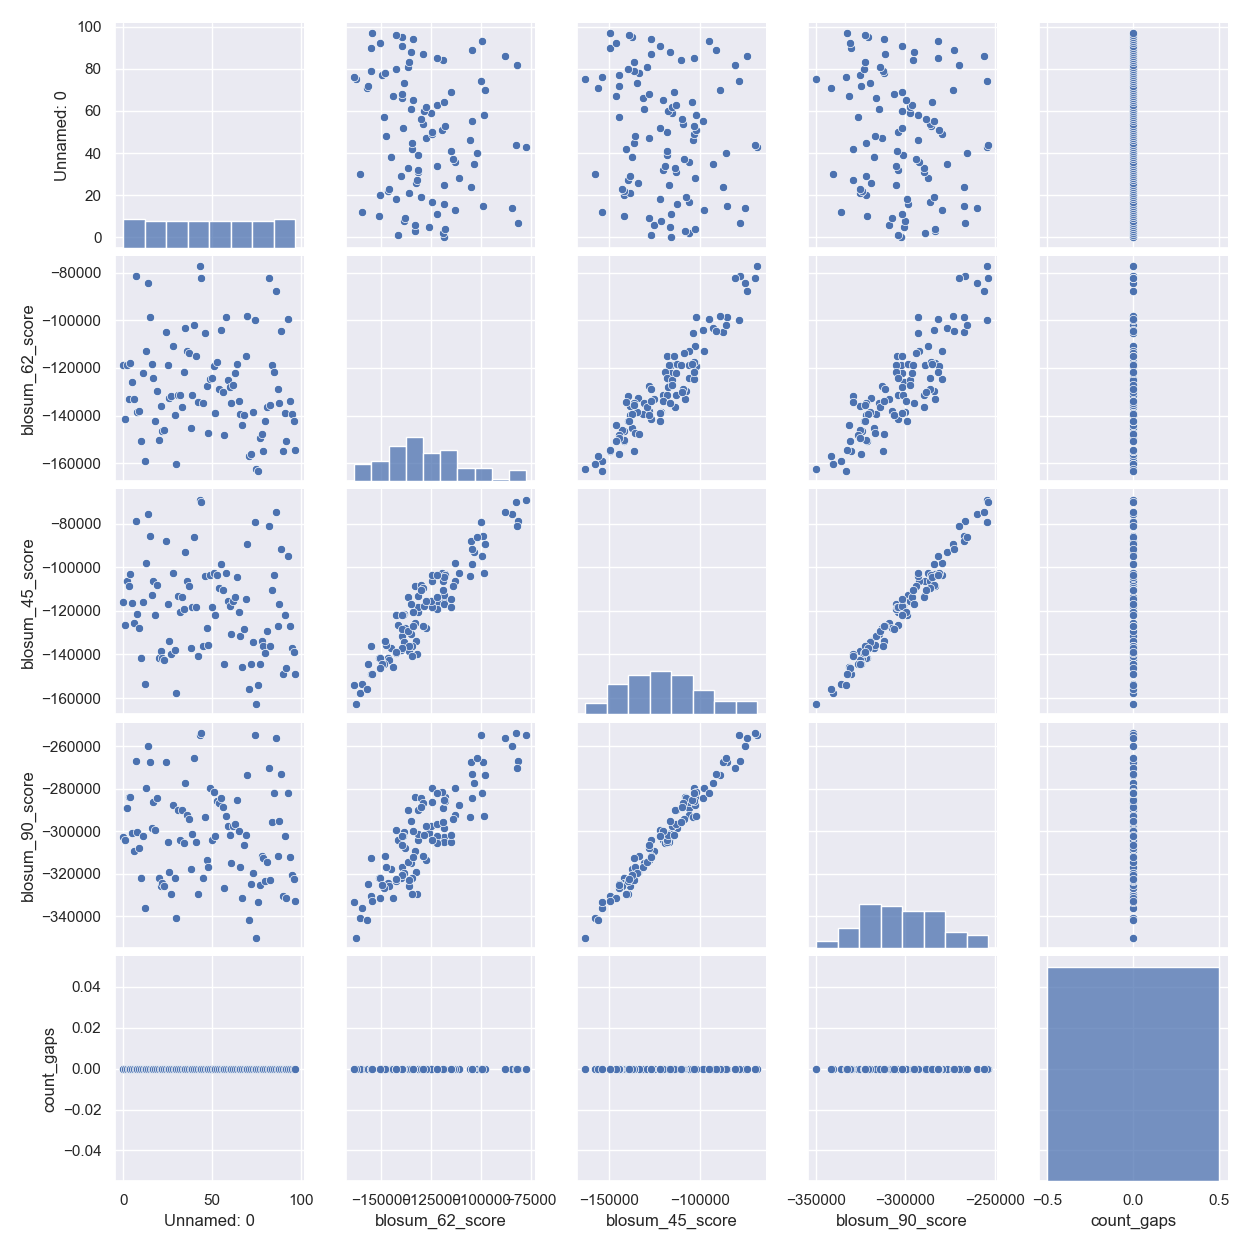
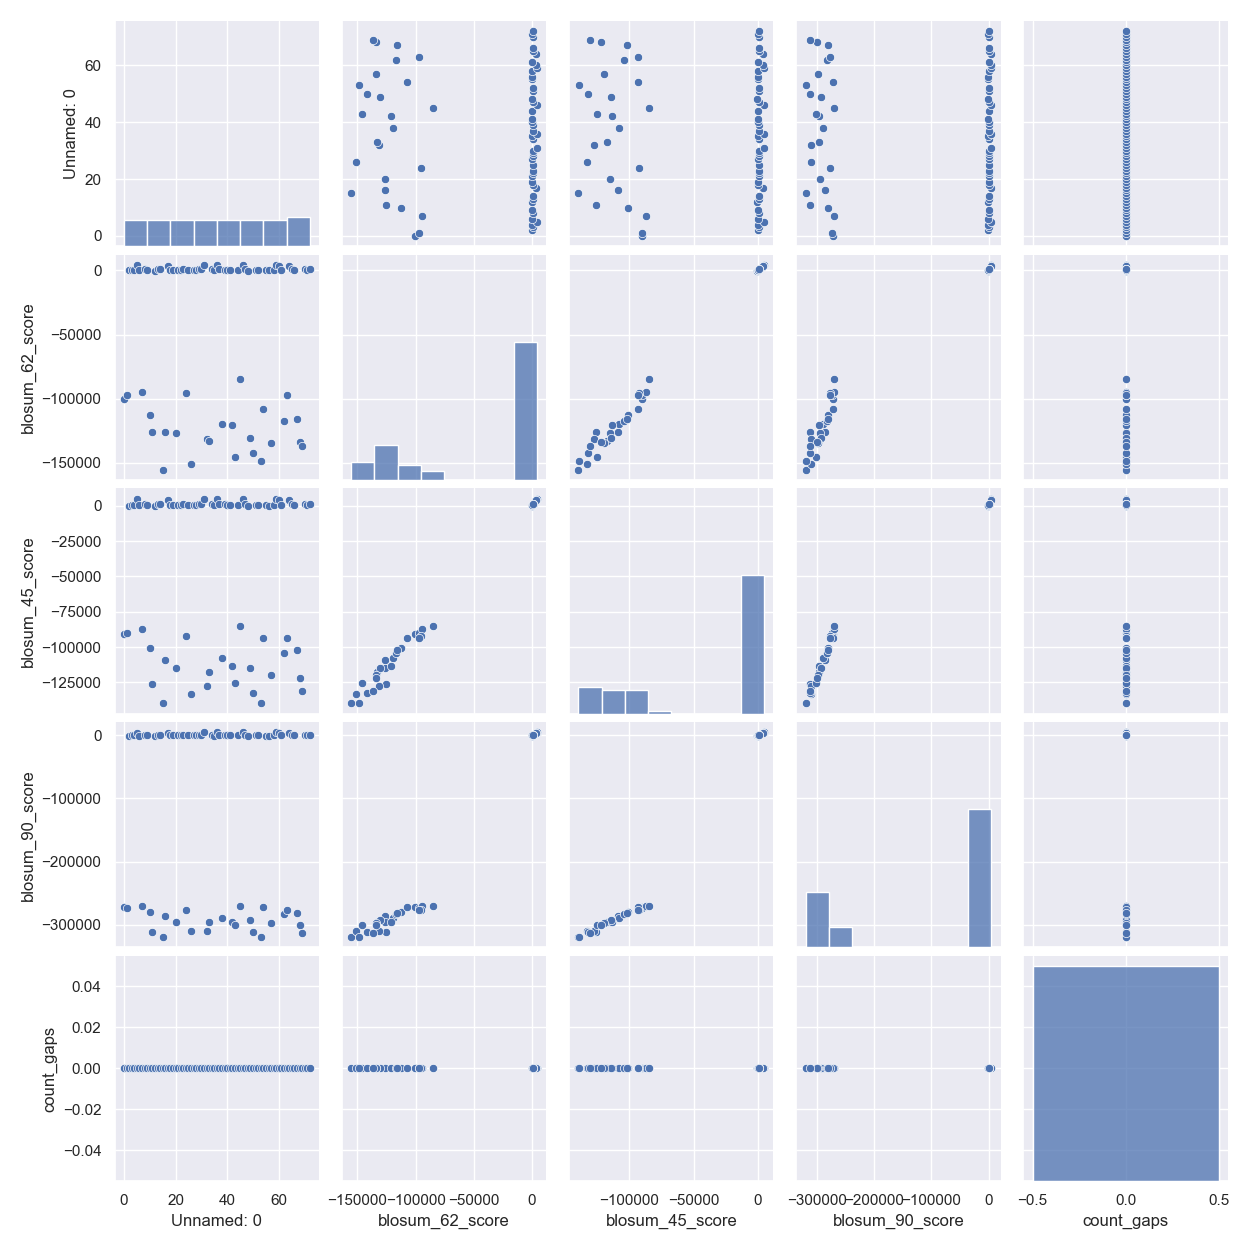
changed to all.fasta

diff --git a/functional_evo.py b/functional_evo.py
@@ -20,7 +20,7 @@ def smith_waterman_align(curr_align):
     Returns:
 
     """
-    # assert?
+    # ASSERT HERE?
     curr_align = curr_align[0]
     return curr_align.smith_waterman()
 
@@ -44,7 +44,8 @@ def count_gaps(curr_align):
 
 def main():
     # path to all.fasta data
-    all = 'data_sources/P53_test_data/dash.fasta'
+    #all = 'data_sources/P53_test_data/dash.fasta'
+    all = 'data_sources/P53_test_data/all.fasta'
 
     # create instance of Align
     initial_object = MonkeyAlign()

diff --git a/EvoAlign/monkey_align.py b/EvoAlign/monkey_align.py
@@ -9,7 +9,6 @@ import copy
 import blosum as bl
 
 DELETION, INSERTION, MATCH = range(3)
-
 BLOSUM_MATRICES = {45: bl.BLOSUM(45), 50: bl.BLOSUM(50), 62: bl.BLOSUM(62), 80: bl.BLOSUM(80), 90: bl.BLOSUM(90)}
 
 class MonkeyAlign():
